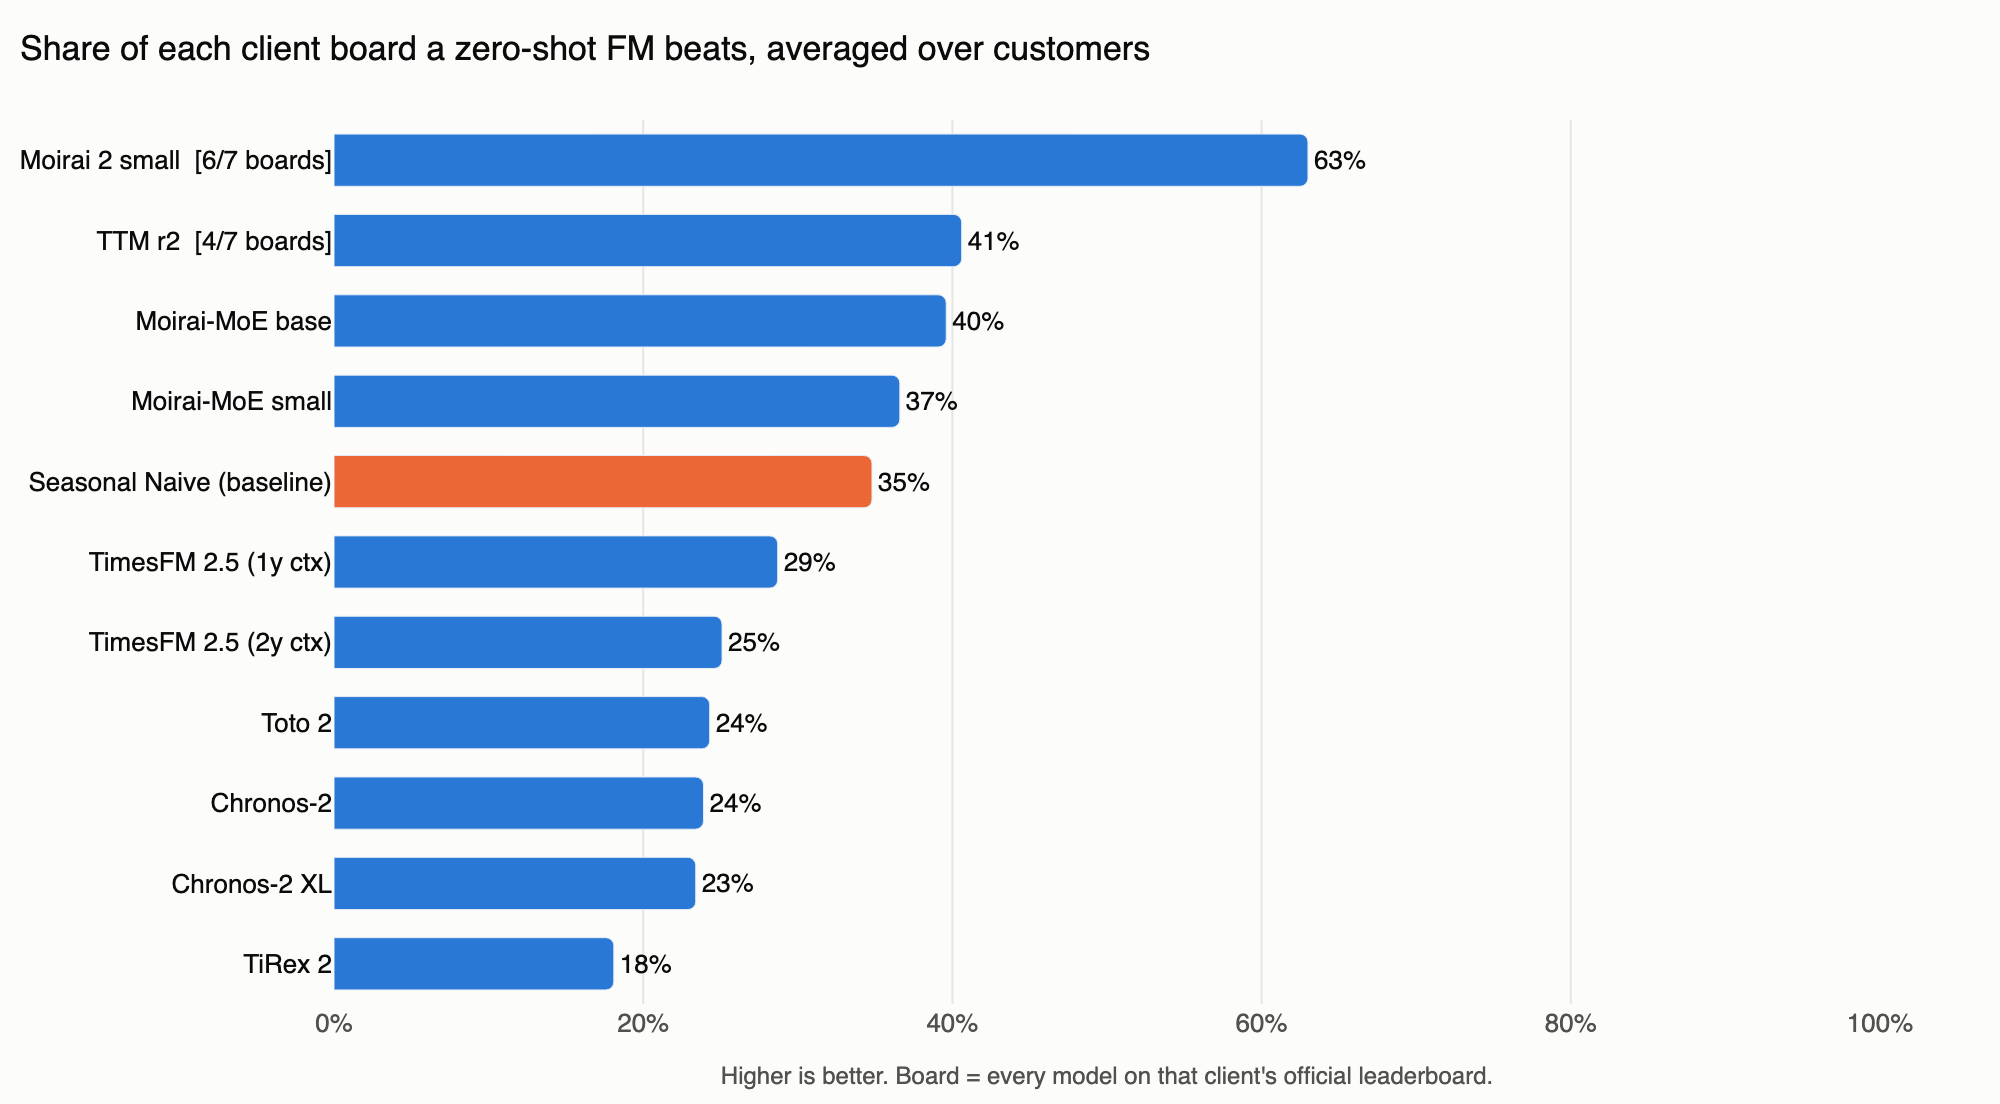
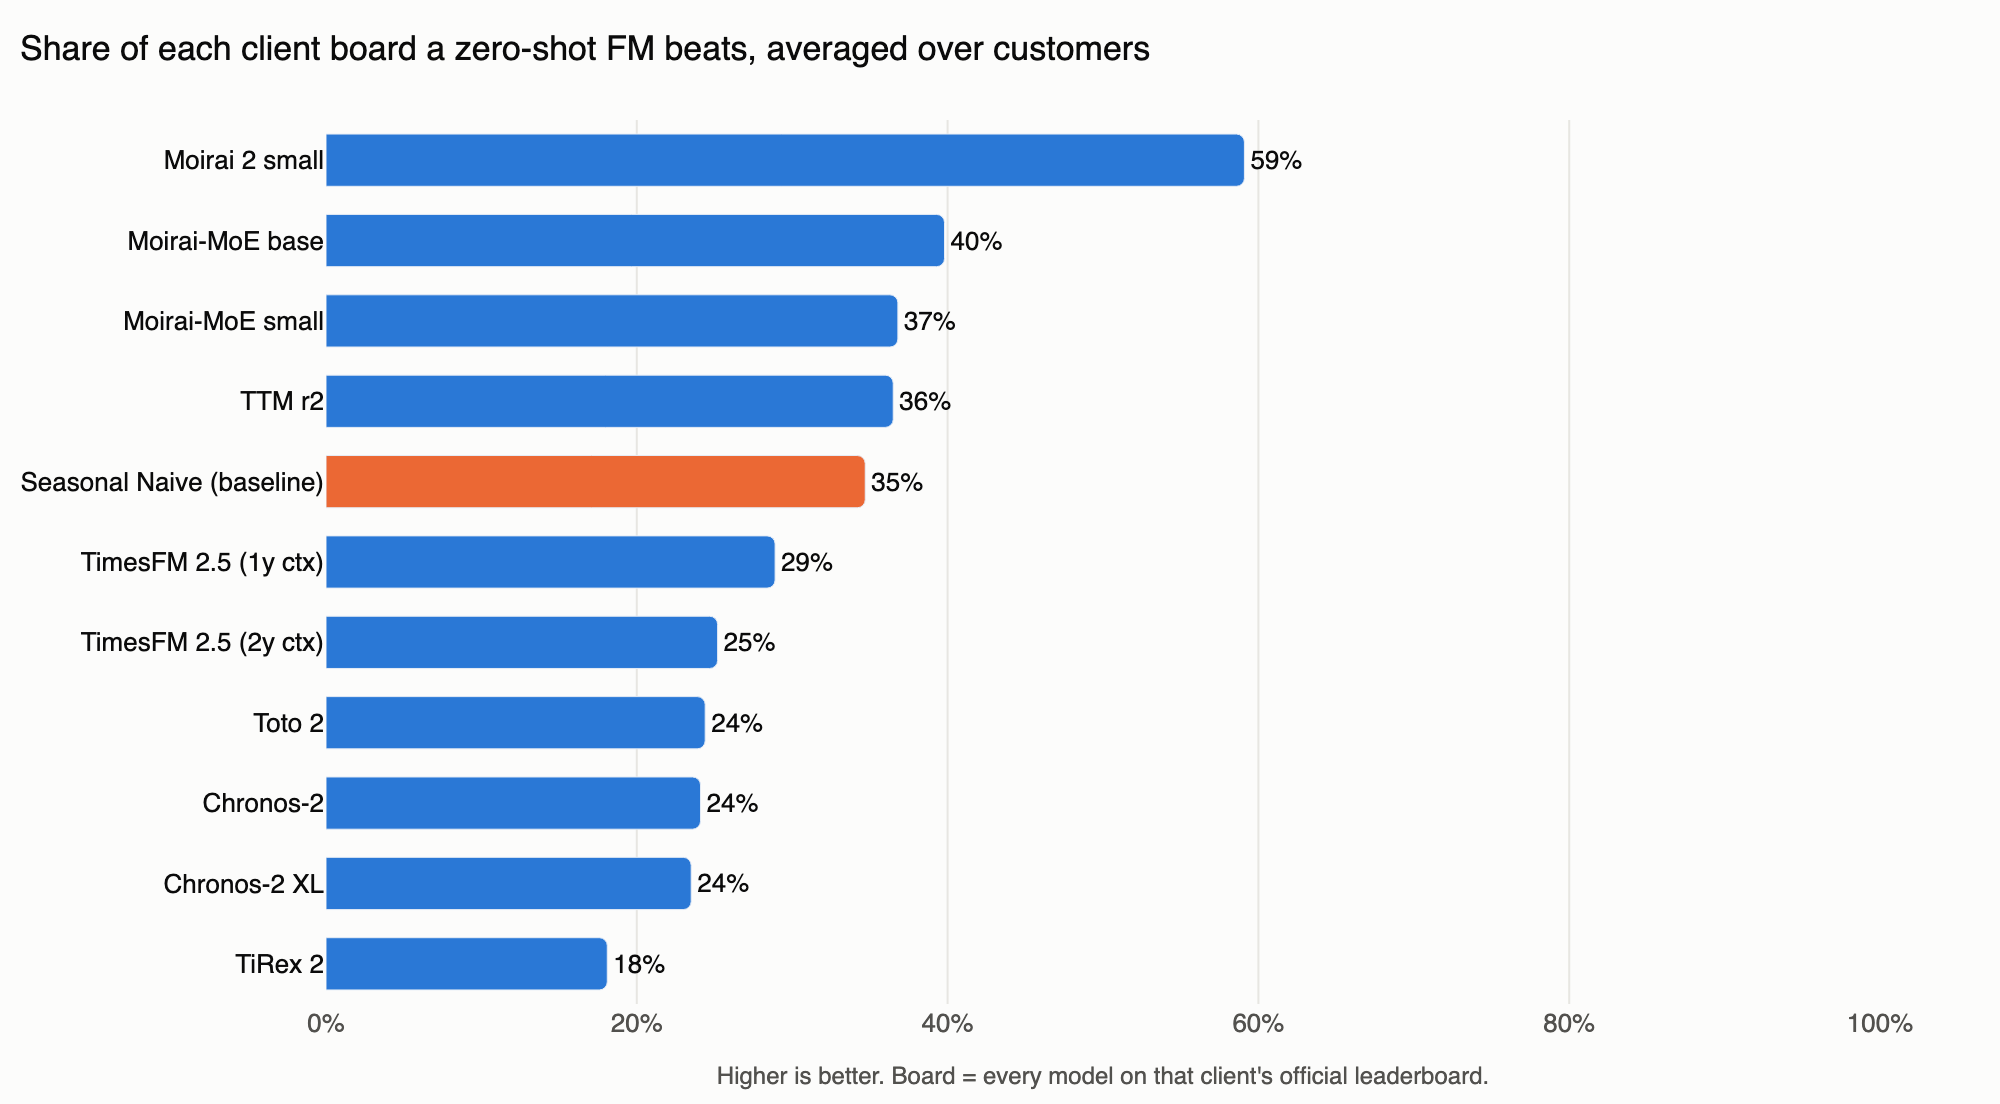
Final numbers: all 10 FMs on all 7 boards

diff --git a/README.md b/README.md
@@ -2,15 +2,15 @@
 
 Ten zero-shot time series foundation models, scored on seven real CPG and retail demand boards, against everything else we run on those boards.
 
-> **Refresh in progress (2026-11-04).** Four runs are still landing: Moirai 2 small on Customer E and TTM r2 on Customers B, E and F. Rows and averages marked with a board count below `7/7` will move when they do. Rerun `scripts/pull_boards.py` and `scripts/make_chart.py` to refresh.
+Last refreshed 2026-11-04. Rerun `scripts/pull_boards.py` and `scripts/make_chart.py` to refresh.
 
 ## Findings
 
-**Moirai 2 small is the only foundation model that clearly earns its place.** On average it beats 63% of each client's full leaderboard, it is the best FM on five of the six boards it has finished, and it has the smallest bias of any FM. On Customer G it lands #3 of 48, a hair behind the best tuned model.
+**Moirai 2 small is the only foundation model that clearly earns its place.** On average it beats 59% of each client's full leaderboard, it is the best FM on five of the seven boards, and it has the smallest \|bias\| of any FM. On Customer G it lands #3 of 48, a hair behind the best tuned model. Its weak spot is Customer E (#74 of 115).
 
-**Most foundation models do not beat a seasonal naive.** TimesFM 2.5, Chronos-2, Chronos-2 XL, Toto 2 and TiRex 2 all average below the seasonal naive baseline across customers. On Customer F the seasonal naive is #2 of 76; no FM gets near it.
+**Most foundation models do not beat a seasonal naive.** TimesFM 2.5, Chronos-2, Chronos-2 XL, Toto 2 and TiRex 2 all average below the seasonal naive baseline across customers, and the Moirai-MoE models and TTM r2 only edge past it. On Customer F the seasonal naive is #2 of 77; no FM gets near it.
 
-**The bias problem from the first round is still there.** TimesFM 2.5, Chronos-2 and TiRex 2 under-forecast on every single board (mean net bias -22% to -33%). The Moirai-MoE models go the other way and over-forecast on most boards. Every board ranks on accuracy plus absolute bias, so this is what sinks most FMs, not raw error.
+**The bias problem from the first round is still there.** TimesFM 2.5, Chronos-2, TiRex 2 and TTM r2 under-forecast on every single board (mean net bias -15% to -33%). The Moirai-MoE models go the other way and over-forecast on most boards. Every board ranks on accuracy plus absolute bias, so this is what sinks most FMs, not raw error.
 
 ![Share of each client board a zero-shot FM beats](data/cross_customer_chart.png)
 
@@ -22,17 +22,17 @@ Board percentile is a model's rank on a client's official leaderboard divided by
 
 | Model | Boards | Mean board percentile | Mean rank in this roster | Mean \|bias\| | Mean net bias | Boards under-forecast | Max fill share |
 |---|---|---|---|---|---|---|---|
-| Moirai 2 small | 6/7 | 0.37 | 2.2 | 22.5% | -2.2% | 5 | 6.0% |
-| TTM r2 | 4/7 | 0.59 | 4.0 | 14.5% | -13.2% | 4 | 2.7% |
-| Moirai-MoE base | 7/7 | 0.60 | 4.9 | 26.1% | +18.4% | 2 | 9.2% |
-| Moirai-MoE small | 7/7 | 0.63 | 6.0 | 28.5% | +21.7% | 1 | 9.2% |
-| *Seasonal Naive (baseline)* | 7/7 | 0.65 | 5.7 | 15.3% | -2.4% | 5 | 7.5% |
-| TimesFM 2.5 (1y context) | 7/7 | 0.71 | 6.0 | 27.2% | -21.8% | 7 | 9.2% |
-| TimesFM 2.5 (2y context) | 7/7 | 0.75 | 6.1 | 28.6% | -24.9% | 7 | 6.2% |
-| Toto 2 | 7/7 | 0.76 | 5.1 | 30.3% | -10.2% | 6 | 9.2% |
-| Chronos-2 | 7/7 | 0.76 | 6.6 | 28.9% | -24.3% | 7 | 6.1% |
-| Chronos-2 XL | 7/7 | 0.77 | 6.9 | 29.0% | -17.6% | 6 | 9.2% |
-| TiRex 2 | 7/7 | 0.82 | 8.4 | 34.7% | -32.5% | 7 | 9.2% |
+| Moirai 2 small | 7/7 | 0.41 | 2.4 | 20.3% | -2.9% | 6 | 7.5% |
+| Moirai-MoE base | 7/7 | 0.60 | 5.0 | 26.1% | +18.4% | 2 | 9.2% |
+| Moirai-MoE small | 7/7 | 0.63 | 6.1 | 28.5% | +21.7% | 1 | 9.2% |
+| TTM r2 | 7/7 | 0.64 | 5.0 | 22.2% | -15.3% | 7 | 7.5% |
+| *Seasonal Naive (baseline)* | 7/7 | 0.65 | 6.1 | 15.3% | -2.4% | 5 | 7.5% |
+| TimesFM 2.5 (1y context) | 7/7 | 0.71 | 6.3 | 27.2% | -21.8% | 7 | 9.2% |
+| TimesFM 2.5 (2y context) | 7/7 | 0.75 | 6.4 | 28.6% | -24.9% | 7 | 6.2% |
+| Toto 2 | 7/7 | 0.76 | 5.6 | 30.3% | -10.2% | 6 | 9.2% |
+| Chronos-2 | 7/7 | 0.76 | 6.9 | 28.9% | -24.3% | 7 | 6.1% |
+| Chronos-2 XL | 7/7 | 0.77 | 7.3 | 29.0% | -17.6% | 6 | 9.2% |
+| TiRex 2 | 7/7 | 0.82 | 8.9 | 34.7% | -32.5% | 7 | 9.2% |
 
 \|bias\| is each board's own bias measure (most average \|bias\| per snapshot, so over- and under-forecast months do not cancel). Net bias is signed: negative means under-forecast.
 
@@ -41,11 +41,11 @@ Board percentile is a model's rank on a client's official leaderboard divided by
 | Customer | Grain | Scored lead | Board size | Best FM (rank) | Seasonal naive rank | Best FM vs board #1 (rank metric) |
 |---|---|---|---|---|---|---|
 | A | Weekly | weeks 9 to 12 | 177 | Moirai 2 small (#95) | #158 | 0.746 vs 0.634 |
-| B | Monthly | month 5 | 120 | TiRex 2 (#44) | #63 | 1.462 vs 1.139 |
+| B | Monthly | month 5 | 121 | TiRex 2 (#44) | #64 | 1.462 vs 1.139 |
 | C | Weekly | weeks 9 to 12 | 201 | Moirai 2 small (#44) | #174 | 0.493 vs 0.393 |
 | D | Weekly | fiscal month +2 | 119 | Moirai 2 small (#27) | #36 | 0.328 vs 0.285 |
-| E | Weekly | week 3 | 113 | Moirai-MoE base (#38) | #110 | 0.475 vs 0.449 |
-| F | Monthly | month 2 | 76 | Moirai 2 small (#24) | #2 | 0.129 vs 0.218 (higher is better) |
+| E | Weekly | week 3 | 115 | Moirai-MoE base (#38) | #112 | 0.475 vs 0.449 |
+| F | Monthly | month 2 | 77 | Moirai 2 small (#24) | #2 | 0.129 vs 0.218 (higher is better) |
 | G | Monthly | month 1 | 48 | Moirai 2 small (#3) | #47 | 0.703 vs 0.681 |
 
 Full per-customer scorecards (every roster model with WMAPE, \|bias\|, net bias, RMSE, fill share and board rank): [`data/scorecards/`](data/scorecards/).
